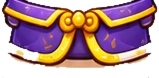
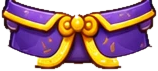
New Dumpling Shop design (no food tab, abilities tab), steady tab switching, cleaner wizard outfit, decor tab arrows

diff --git a/js/menus.js b/js/menus.js
@@ -237,25 +237,94 @@
     return true;
   }
   function shop(tab) {
-    tab = tab || 'food';
-    const st = DG.state, inv = st.inventory;
-    const tabs = [['food', '🍱 Food'], ['outfits', '👕 Outfits'], ['accessories', '🎀 Hats & Accessories'], ['toys', '🧸 Toys'], ['decor', '🪴 Decor'], ['arenas', '🏟 Arenas']];
-    const table = { food: DG.FOODS, outfits: DG.OUTFITS, accessories: DG.ACCESSORIES, toys: DG.TOYS, decor: DG.DECOR, arenas: DG.ARENAS }[tab];
-    const items = Object.entries(table).filter(([, it]) => !(tab === 'food' && it.free) && !(tab !== 'food' && it.price === 0));
+    tab = { food: 'outfits', arenas: 'decor' }[tab] || tab || 'outfits';
+    const st = DG.state, inv = st.inventory, p = DG.pet();
+    if (!inv.outfits) inv.outfits = [];
+    let page = 0, stopPeek = null;
+    const PER = 12;
+    const A = (path) => (window.DG_ASSETS && window.DG_ASSETS[path]) || `${path}?v=1`;
+    const ico = (n) => `<img class="sh-ico" src="${A(`img/sh_${n}.webp`)}" alt="">`;
+    const ORB = { steampuff: ['#b78cff', 'e-steam-burst'], bunslam: ['#ffb34a', 'e-ground-shockwave'], crispydash: ['#ff7a3a', 'e-gold-sparks'], pleatflurry: ['#5fb0ff', 'e-attack-slash'],
+      brothbubble: ['#4cc2ff', 'e-shield-bubble'], ladlesplash: ['#3fa0ff', 'e-broth-splash'], grandsteamer: ['#a54cf0', 'e-purple-tornado'], goldenfry: ['#ff5a2a', 'e-fire-dragon'], hotpot: ['#58c8ff', 'e-ice-burst'] };
+    const RM = ['lantern', 'painting', 'poster', 'clock', 'shelf', 'fish', 'plant'];
+    const TABS = {
+      outfits:     { label: 'Outfits',     note: 'Dress up! Outfits are cosmetic and can be worn in the Closet.' },
+      accessories: { label: 'Accessories', note: 'Build your style! Accessories are cosmetic and can be equipped in the Closet.' },
+      toys:        { label: 'Toys',        note: 'Toys go in the toy basket. Playing makes your dumpling happy!' },
+      decor:       { label: 'Decor',       note: 'Show or hide decorations with the House button. Arena looks change your battle arena.' },
+      abilities:   { label: 'Abilities',   note: 'Special moves for tap battles. Equip two in the Arena under ✨ Specials.' },
+    };
+    const items = () => {
+      if (tab === 'outfits') return Object.entries(DG.OUTFITS).map(([id, x]) => ({ cat: 'outfits', id, name: x.name, price: x.price, own: inv.outfits.includes(id), art: `<canvas class="sh-cv" data-outfit="${id}" width="160" height="120"></canvas>` }));
+      if (tab === 'accessories') return Object.entries(DG.ACCESSORIES).map(([id, x]) => ({ cat: 'accessories', id, name: x.name, price: x.price, own: inv.accessories.includes(id), art: `<img src="${A(`img/col/a-${id}.webp`)}" alt="">` }));
+      if (tab === 'toys') return Object.entries(DG.TOYS).filter(([, x]) => x.price > 0).map(([id, x]) => ({ cat: 'toys', id, name: x.name, price: x.price, own: inv.toys.includes(id), art: `<canvas class="sh-cv" data-toy="${id}" width="120" height="120"></canvas>` }));
+      if (tab === 'decor') return Object.entries(DG.DECOR).map(([id, x]) => ({ cat: 'decor', id, name: x.name, price: x.price, own: inv.decor.includes(id),
+        art: RM.includes(id) ? `<img src="${A(`img/rm_${id}.webp`)}" alt="">` : `<span class="sh-emoji">${x.icon}</span>` }))
+        .concat(Object.entries(DG.ARENAS).filter(([, x]) => x.price > 0).map(([id, x]) => ({ cat: 'arenas', id, name: x.name, price: x.price, own: inv.arenas.includes(id), tag: 'Arena', art: `<span class="sh-emoji">${x.icon}</span>` })));
+      return Object.entries(DG.TAP_MOVES).map(([id, x]) => {
+        const can = DG.canUseMove(id), o = ORB[id] || ['#ffb34a', ''];
+        return { cat: 'abilities', id, name: DG.MOVES[id].name, price: x.price, own: st.moves && st.moves.owned.includes(id), why: can.ok ? '' : can.why,
+          art: `<span class="sh-orb" style="--oc:${o[0]}">${o[1] ? `<img src="${A(`img/col/${o[1]}.webp`)}" alt="">` : x.icon}</span>` };
+      });
+    };
+    const card = (it, k) => `<div class="sh-card sh-c-${tab}">
+        ${it.tag ? `<i class="sh-tag">${it.tag}</i>` : ''}<div class="sh-art">${it.art}</div>
+        <b class="sh-name">${esc(it.name)}</b>
+        ${it.own ? '<span class="sh-owned">Owned ✓</span>' : it.why ? `<span class="sh-lock">🔒 ${esc(it.why)}</span>`
+          : `<button class="sh-buy" data-k="${k}" ${st.coins < it.price ? 'data-poor="1"' : ''}><i class="fd-coin"></i>${it.price}</button>`}
+      </div>`;
+    const render = (el) => {
+      const all = items(), np = Math.max(1, Math.ceil(all.length / PER)); page = Math.min(page, np - 1);
+      el.querySelector('#sh-coins').textContent = st.coins;
+      el.querySelector('#sh-note').textContent = TABS[tab].note;
+      el.querySelector('#sh-grid').innerHTML = all.slice(page * PER, page * PER + PER).map((it, i) => card(it, page * PER + i)).join('');
+      el.querySelector('#sh-dots').innerHTML = np > 1 ? Array.from({ length: np }, (_, i) => `<i class="${i === page ? 'on' : ''}"></i>`).join('') : '';
+      el.querySelector('[data-pg="-1"]').disabled = !page; el.querySelector('[data-pg="1"]').disabled = page >= np - 1;
+      el.querySelectorAll('.sh-cv').forEach((cv) => {
+        const c = cv.getContext('2d'); c.clearRect(0, 0, cv.width, cv.height);
+        if (cv.dataset.toy && DG.draw.toy) DG.draw.toy(c, cv.dataset.toy, 60, 92, 1.35, { t: 0 });
+        if (cv.dataset.outfit && p) DG.draw.dumpling(c, { type: p.type, look: p.look, x: 80, y: 114, size: p.type === 'gyoza' ? 128 : 108, stage: 2, mood: 'happy', shadow: false, t: 0, accessory: null, outfit: cv.dataset.outfit });
+      });
+      if (tab === 'outfits' && !DG.outfitArtReady()) setTimeout(() => { if (el.isConnected) render(el); }, 200);
+      el.querySelectorAll('.sh-buy').forEach((b) => (b.onclick = () => {
+        const it = all[+b.dataset.k];
+        if (it.cat === 'abilities') {
+          const r = DG.buyMove(it.id);
+          if (!r.ok) { DG.ui.toast(r.why.startsWith('Needs') ? 'Not enough Dumpling Coins yet — train or battle to earn more!' : r.why); DG.audio.play('bad'); return; }
+          DG.audio.play('coin'); DG.ui.toast(`Learned ${DG.TAP_MOVES[it.id].icon} ${DG.MOVES[it.id].name}!`); if (DG.Home) DG.Home.renderHud();
+        } else if (!buy(it.cat, it.id)) return;
+        render(el);
+      }));
+    };
+    const fit = (el) => { // shrink to fit the screen so the shop never needs scrolling
+      const box = el.querySelector('.sh'); box.style.zoom = 1;
+      const need = box.offsetHeight + 16, room = window.innerHeight - 12;
+      if (need > room) box.style.zoom = Math.max(0.6, room / need).toFixed(3);
+    };
     DG.ui.modal({
-      title: '🛍 Dumpling Shop', wide: true,
-      html: `<div class="tabs">${tabs.map(([k, l]) => `<button class="tab ${k === tab ? 'on' : ''}" data-tab="${k}">${l}</button>`).join('')}</div>
-        <p class="coins-line">🪙 <b>${st.coins}</b> Dumpling Coins</p>
-        <div class="shop-grid">${items.map(([id, it]) => {
-          const owned = tab !== 'food' && inv[tab].includes(id);
-          return `<div class="shop-item ${owned ? 'owned' : ''}" title="${esc(it.desc || it.name)}"><div class="shop-ico">${it.icon}</div><b>${it.name}</b>
-            ${tab === 'food' ? `<small class="desc">${it.desc}</small><small class="have">Have: ${inv.food[id] || 0}</small>` : ''}
-            ${owned ? '<span class="owned-tag">Owned ✓</span>' : `<button class="btn small primary" data-buy="${id}" ${st.coins < it.price ? 'disabled' : ''}>🪙 ${it.price}</button>`}</div>`;
-        }).join('')}</div>
-        <p class="fine">Everything is earned through play. Accessories, decor and arenas are cosmetic. Equip them in the Closet.</p>`,
-      onOpen(el, cl) {
-        el.querySelectorAll('[data-tab]').forEach((b) => (b.onclick = () => { cl(); shop(b.dataset.tab); }));
-        el.querySelectorAll('[data-buy]').forEach((b) => (b.onclick = () => { if (buy(tab, b.dataset.buy)) { cl(); shop(tab); } }));
+      cls: 'sh-modal', wide: true,
+      html: `<div class="sh">
+          <div class="sh-top"><div class="sh-awning"></div><div class="sh-sign"><span class="sh-store">${`<img src="${A('img/cl_shop.webp')}" alt="">`}</span><h2>Dumpling Shop</h2></div>
+            <div class="sh-peek"><canvas id="sh-pet" width="240" height="90"></canvas></div></div>
+          <div class="sh-body">
+            <div class="sh-tabs">${Object.entries(TABS).map(([k, x]) => `<button class="sh-tab sh-t-${k} ${k === tab ? 'on' : ''}" data-tab="${k}">${ico(k)}<span>${x.label}</span></button>`).join('')}</div>
+            <div class="sh-coinline">${ico('coin')}<b id="sh-coins"></b> Dumpling Coins</div>
+            <div class="sh-pick"><button class="dc-arrow" data-pg="-1" aria-label="Previous">‹</button><div class="sh-grid" id="sh-grid"></div><button class="dc-arrow" data-pg="1" aria-label="Next">›</button></div>
+            <div class="dc-dots" id="sh-dots"></div>
+            <div class="sh-note"><span>✨</span><p><i class="sh-i">i</i><span id="sh-note"></span></p><span>✨</span></div>
+          </div>
+        </div>`,
+      onClose() { if (stopPeek) stopPeek(); },
+      onOpen(el) {
+        if (p) stopPeek = DG.ui.previewLoop(el.querySelector('#sh-pet'), (t) => ({ type: p.type, look: p.look, stage: 0, size: 110, accessory: p.accessory, mood: 'joy', shadow: false,
+          blink: (t % 3.1) < 0.12, y: 104 - Math.max(0, Math.sin(t * 3)) * 4 }), 240, 90);
+        render(el);
+        el.querySelectorAll('[data-pg]').forEach((b) => (b.onclick = () => { page += +b.dataset.pg; DG.audio.play('click'); render(el); }));
+        el.querySelectorAll('[data-tab]').forEach((b) => (b.onclick = () => {
+          tab = b.dataset.tab; page = 0; DG.audio.play('click');
+          el.querySelectorAll('[data-tab]').forEach((x) => x.classList.toggle('on', x === b)); render(el); // same size on every tab: no re-fit
+        }));
+        fit(el); el.querySelectorAll('img').forEach((im) => { if (!im.complete) im.addEventListener('load', () => fit(el), { once: true }); });
       },
     });
   }

diff --git a/css/style.css b/css/style.css
@@ -1942,3 +1942,76 @@ img.bt-face { object-fit: cover; object-position: 50% 62%; }
 .cl-it small { font-size: 0.75em; }
 .cl-lock { font-size: 1.7em; }
 .cl .dc-pick { padding: 0 4px; }
+/* decorate: five equal columns, so long names never push the › arrow off screen */
+.dc-sws { grid-template-columns: repeat(5, minmax(0, 1fr)); min-width: 0; }
+.dc-it { min-width: 0; }
+.dc-it small { display: block; width: 100%; }
+
+/* ---------- Dumpling Shop (from the design) ---------- */
+.modal-wrap:has(.sh-modal) { padding: 6px; align-items: flex-start; }
+.modal.sh-modal { max-width: 600px; width: 100%; max-height: none; padding: 0; overflow: visible; background: transparent; box-shadow: none; margin: 0 auto; }
+.sh-modal .modal-x { top: 10px; right: 10px; z-index: 6; width: 46px; height: 46px; font-size: 1.3em; font-weight: 800; color: #5a3a24;
+  background: radial-gradient(circle at 40% 30%, #fffdf8, #f6e9d6); border: 3px solid #ecd6b6; box-shadow: 0 3px 0 #d8b98f; }
+.sh { position: relative; border-radius: 30px; overflow: hidden; background: linear-gradient(180deg, #8fd3ff 0, #c9ecff 120px, #fdf3e6 121px); border: 4px solid #fff; box-shadow: 0 18px 40px rgba(90, 50, 20, 0.35); color: #4a2c1a; }
+.sh-top { position: relative; height: 150px; }
+.sh-awning { position: absolute; left: 4%; right: 4%; top: 0; height: 70px; border-radius: 0 0 18px 18px;
+  background: repeating-linear-gradient(90deg, #ef5a64 0 46px, #fff7f0 46px 92px); box-shadow: 0 4px 0 rgba(150, 40, 40, 0.25);
+  -webkit-mask: radial-gradient(circle at 23px 100%, transparent 0, #000 0) 0 0 / 46px 100%; }
+.sh-awning::after { content: ''; position: absolute; left: 0; right: 0; bottom: -16px; height: 20px;
+  background: radial-gradient(circle at 23px 0, #ef5a64 18px, transparent 19px) 0 0 / 92px 20px, radial-gradient(circle at 69px 0, #fff7f0 18px, transparent 19px) 0 0 / 92px 20px; }
+.sh-top::before { content: ''; position: absolute; left: 8%; right: 8%; top: 70px; bottom: 0; background: linear-gradient(180deg, #d98ad8, #b86cc4); border-left: 10px solid #9a5a2c; border-right: 10px solid #9a5a2c; }
+.sh-sign { position: absolute; z-index: 2; left: 50%; top: 44px; transform: translateX(-50%); display: flex; align-items: center; gap: 8px; padding: 6px 22px 8px; border-radius: 26px; white-space: nowrap;
+  background: linear-gradient(180deg, #fff1d2, #f4c98b); border: 4px solid #a8692f; box-shadow: inset 0 3px 0 rgba(255, 250, 230, 0.8), 0 5px 0 #7d4a1c; }
+.sh-sign h2 { margin: 0; font-size: clamp(1.4em, 7vw, 2.1em); color: #4a2410; }
+.sh-store img { width: 38px; display: block; }
+.sh-peek { position: absolute; z-index: 1; left: 50%; bottom: -8px; transform: translateX(-50%); width: 160px; height: 60px; overflow: hidden; }
+.sh-peek canvas { width: 160px; height: auto; display: block; }
+.sh-body { position: relative; z-index: 3; margin-top: -6px; padding: 10px 8px 10px; border-radius: 26px 26px 0 0; background: #fdf3e6; }
+.sh-tabs { display: grid; grid-template-columns: repeat(5, minmax(0, 1fr)); gap: 6px; }
+.sh-tab { display: flex; flex-direction: column; align-items: center; gap: 2px; padding: 6px 1px 6px; border-radius: 18px; font: inherit; font-weight: 800; font-size: 0.85em; color: #4a2c1a; cursor: pointer; border: 3px solid #fff; box-shadow: 0 3px 0 rgba(120, 80, 40, 0.25); }
+.sh-tab span { white-space: nowrap; overflow: hidden; text-overflow: ellipsis; max-width: 100%; }
+.sh-ico { display: block; height: 34px; width: auto; max-width: 100%; object-fit: contain; }
+.sh-t-outfits { background: linear-gradient(180deg, #b7dcff, #7fb8f0); } .sh-t-accessories { background: linear-gradient(180deg, #ffd3ec, #f59ccf); }
+.sh-t-toys { background: linear-gradient(180deg, #fff3dc, #f2d9b0); } .sh-t-decor { background: linear-gradient(180deg, #d9f3c2, #9fd987); }
+.sh-t-abilities { background: linear-gradient(180deg, #ecdcff, #c3a2f3); }
+.sh-tab.on { transform: translateY(-3px); border-color: #ffd44d; box-shadow: 0 0 0 2px #ffb21a, 0 5px 0 rgba(120, 80, 40, 0.3); }
+.sh-coinline { display: flex; align-items: center; gap: 8px; margin: 10px 6px 8px; font-size: 1.1em; }
+.sh-coinline .sh-ico { height: 30px; }
+.sh-coinline b { font-size: 1.3em; }
+.sh-pick { display: flex; align-items: center; gap: 4px; }
+.sh-grid { flex: 1; min-width: 0; display: grid; grid-template-columns: repeat(3, minmax(0, 1fr)); gap: 8px; }
+.sh-card { position: relative; display: flex; flex-direction: column; align-items: center; gap: 3px; padding: 6px 4px 7px; border-radius: 18px; text-align: center; border: 3px solid #fff; box-shadow: 0 0 0 2px #f0dcc4, 0 3px 6px rgba(120, 70, 30, 0.12);
+  background: linear-gradient(180deg, #eadcff, #fff8fd 70%); }
+.sh-c-outfits { background: linear-gradient(180deg, #d6eaff, #f8fbff 70%); } .sh-c-toys { background: linear-gradient(180deg, #fff0d6, #fffaf2 70%); }
+.sh-c-decor { background: linear-gradient(180deg, #e2f6d2, #fbfff6 70%); } .sh-c-abilities { background: linear-gradient(180deg, #e6d8ff, #fbf8ff 70%); }
+.sh-art { width: 100%; height: 56px; display: flex; align-items: center; justify-content: center; }
+.sh-art img, .sh-art canvas { max-width: 92%; max-height: 56px; object-fit: contain; }
+.sh-art canvas { height: 56px; width: auto; }
+.sh-emoji { font-size: 2.3em; line-height: 1; }
+.sh-orb { display: flex; align-items: center; justify-content: center; width: 54px; height: 54px; border-radius: 50%; font-size: 1.6em; background: radial-gradient(circle at 40% 35%, #fff, var(--oc) 75%); box-shadow: 0 0 10px var(--oc); }
+.sh-orb img { width: 120%; height: 120%; object-fit: contain; }
+.sh-name { font-size: 0.78em; line-height: 1.1; min-height: 2.2em; display: flex; align-items: center; justify-content: center; }
+.sh-buy { display: inline-flex; align-items: center; justify-content: center; gap: 5px; width: 92%; padding: 3px 0; border-radius: 999px; font: inherit; font-weight: 900; font-size: 1em; color: #4a2410; cursor: pointer;
+  background: linear-gradient(180deg, #ffe680, #ffc21f); border: 2px solid #fff3c4; box-shadow: 0 0 0 2px #e0a414, 0 3px 0 #b98208; }
+.sh-buy[data-poor] { filter: grayscale(0.4); opacity: 0.7; }
+.sh-owned { width: 92%; padding: 3px 0; border-radius: 999px; font-weight: 900; font-size: 0.9em; color: #2e7d22; background: linear-gradient(180deg, #e2ffd2, #b9ef9c); border: 2px solid #fff; box-shadow: 0 0 0 2px #8fd06d; }
+.sh-lock { width: 96%; padding: 3px 2px; border-radius: 999px; font-weight: 800; font-size: 0.62em; color: #6a5a7a; background: #eee6f6; line-height: 1.2; }
+.sh-tag { position: absolute; top: 4px; left: 6px; font-style: normal; font-size: 0.6em; font-weight: 800; padding: 1px 6px; border-radius: 999px; background: #ffe3a6; color: #6b4a00; }
+.sh-note { display: flex; align-items: center; gap: 6px; margin-top: 8px; padding: 8px 10px; border-radius: 18px; background: #fff8ea; border: 2px solid #f0dcc0; font-size: 0.82em; line-height: 1.3; }
+.sh-note p { flex: 1; margin: 0; text-align: center; }
+.sh-note > span { color: #ffc21f; font-size: 1.2em; }
+.sh-i { display: inline-flex; align-items: center; justify-content: center; width: 18px; height: 18px; margin-right: 6px; border-radius: 50%; font-style: italic; font-weight: 900; font-size: 0.85em; color: #fff; background: #a07850; vertical-align: -3px; }
+@media (max-width: 600px) {
+  .sh-tab { font-size: 0.62em; border-radius: 14px; } .sh-ico { height: 28px; }
+  .sh-name { font-size: 0.7em; } .sh-buy { font-size: 0.9em; }
+  .sh-modal .modal-x { width: 40px; height: 40px; top: 6px; right: 6px; }
+  .sh-sign { padding: 4px 14px 6px; } .sh-store img { width: 30px; }
+}
+.sh-peek { bottom: 6px; height: 66px; }
+/* shop: every tab keeps exactly the same layout (4 rows of equal cards, fixed note), so switching never jumps */
+.sh-grid { grid-template-rows: repeat(4, 124px); align-content: start; }
+.sh-card { height: 124px; box-sizing: border-box; overflow: hidden; }
+.sh-name { min-height: 2.2em; max-height: 2.2em; overflow: hidden; }
+.sh-note { min-height: 3.4em; box-sizing: border-box; }
+.sh-tab, .sh-tab.on { transform: none; }
+.sh-tab.on { box-shadow: 0 0 0 2px #ffb21a, 0 3px 0 rgba(120, 80, 40, 0.3); }

diff --git a/index.html b/index.html
@@ -11,7 +11,7 @@
 <title>My Pet Dumpling</title>
 <link rel="preconnect" href="https://fonts.googleapis.com">
 <link href="https://fonts.googleapis.com/css2?family=Fredoka:wght@400;500;600;700&display=swap" rel="stylesheet">
-<link rel="stylesheet" href="css/style.css?v=195">
+<link rel="stylesheet" href="css/style.css?v=202">
 </head>
 <body>
 <div id="app">
@@ -26,18 +26,18 @@
 
 <script src="https://cdnjs.cloudflare.com/ajax/libs/three.js/r128/three.min.js"></script>
 <script src="https://cdnjs.cloudflare.com/ajax/libs/peerjs/1.5.4/peerjs.min.js"></script>
-<script src="js/data.js?v=195"></script>
-<script src="js/state.js?v=195"></script>
-<script src="js/audio.js?v=195"></script>
-<script src="js/draw.js?v=195"></script>
-<script src="js/ui.js?v=195"></script>
-<script src="js/home.js?v=195"></script>
-<script src="js/menus.js?v=195"></script>
-<script src="js/walk.js?v=195"></script>
-<script src="js/training.js?v=195"></script>
-<script src="js/arena.js?v=195"></script>
-<script src="js/main.js?v=195"></script>
+<script src="js/data.js?v=202"></script>
+<script src="js/state.js?v=202"></script>
+<script src="js/audio.js?v=202"></script>
+<script src="js/draw.js?v=202"></script>
+<script src="js/ui.js?v=202"></script>
+<script src="js/home.js?v=202"></script>
+<script src="js/menus.js?v=202"></script>
+<script src="js/walk.js?v=202"></script>
+<script src="js/training.js?v=202"></script>
+<script src="js/arena.js?v=202"></script>
+<script src="js/main.js?v=202"></script>
 <!-- DEVELOPER CODES: testing only. Delete this line and js/dev.js before release. -->
-<script src="js/dev.js?v=195"></script>
+<script src="js/dev.js?v=202"></script>
 </body>
 </html>

diff --git a/js/draw.js b/js/draw.js
@@ -193,7 +193,7 @@
   const OFIMG = {};
   const ofImg = (n) => {
     if (typeof Image === 'undefined') return null;
-    if (!OFIMG[n]) { const im = new Image(); im.decoding = 'async'; im.src = (window.DG_ASSETS && window.DG_ASSETS[`img/of_${n}.webp`]) || `img/of_${n}.webp?v=1`; OFIMG[n] = im; }
+    if (!OFIMG[n]) { const im = new Image(); im.decoding = 'async'; im.src = (window.DG_ASSETS && window.DG_ASSETS[`img/of_${n}.webp`]) || `img/of_${n}.webp?v=2`; OFIMG[n] = im; }
     return OFIMG[n].complete && OFIMG[n].naturalWidth ? OFIMG[n] : null;
   };
   // where clothes sit on each body: top (in u, from the feet), bottom, width

diff --git a/build_single.py b/build_single.py
@@ -47,7 +47,7 @@ def data_uri(name):
     return 'data:%s;base64,%s' % (mime, base64.b64encode(path.read_bytes()).decode())
 html = re.sub(r"(['\"])img/([\w.-]+?\.(?:webp|png|jpg|svg))(?:\?v=\d+)?\1", lambda m: m.group(1) + data_uri(m.group(2)) + m.group(1), html)
 # images whose names are built at run time (room art: img/rm_<piece>.webp) go into a lookup table the code checks first
-assets = {f'img/{p.name}': data_uri(p.name) for pat in ('rm_*.webp', 'bt_*.webp', 'ar_opp_*.webp', 'fd_*.webp', 'dc_*.webp', 'of_*.webp', 'cl_*.webp') for p in sorted((root / 'img').glob(pat))}
+assets = {f'img/{p.name}': data_uri(p.name) for pat in ('rm_*.webp', 'bt_*.webp', 'ar_opp_*.webp', 'fd_*.webp', 'dc_*.webp', 'of_*.webp', 'cl_*.webp', 'sh_*.webp') for p in sorted((root / 'img').glob(pat))}
 # the Coliseum battle art lives in img/col/ and is loaded by name at run time
 assets.update({f'img/col/{p.name}': data_uri(f'col/{p.name}') for p in sorted((root / 'img' / 'col').glob('*.webp'))})
 import json
